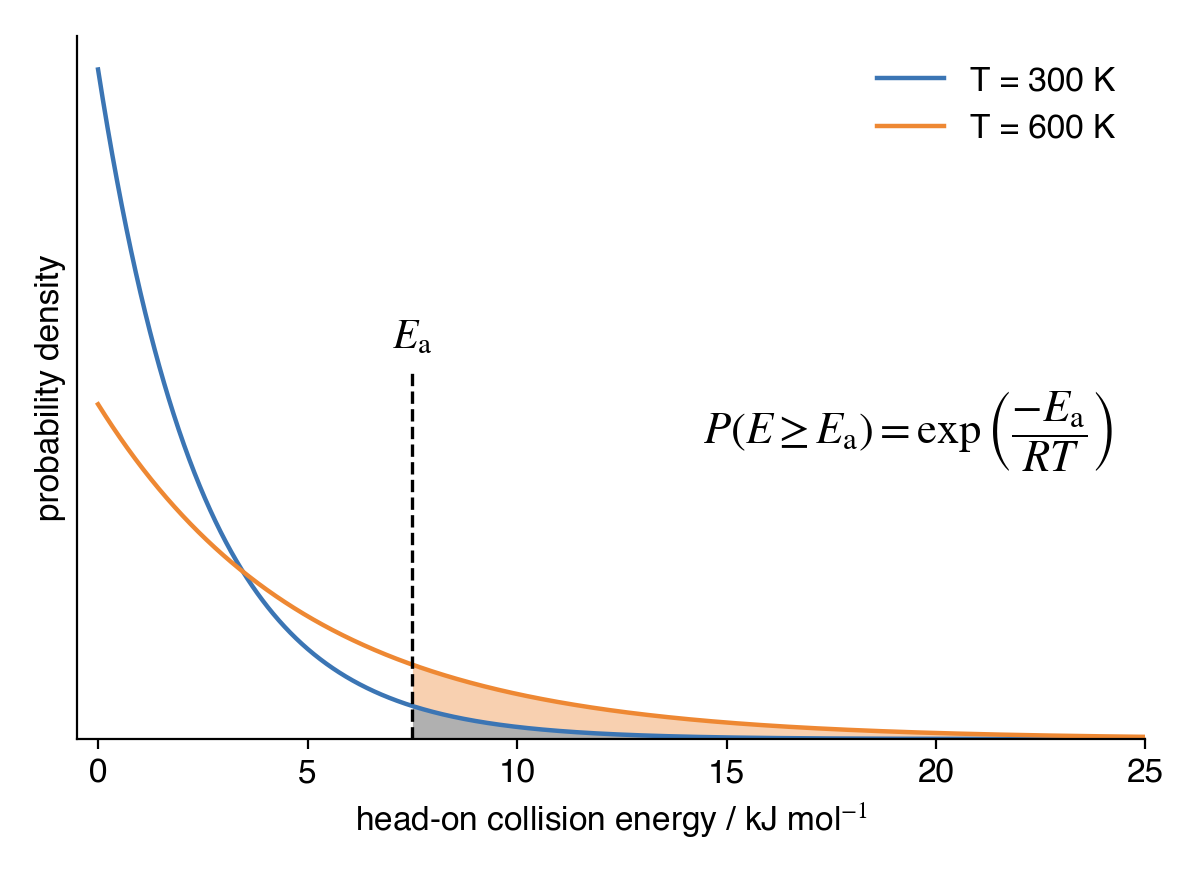
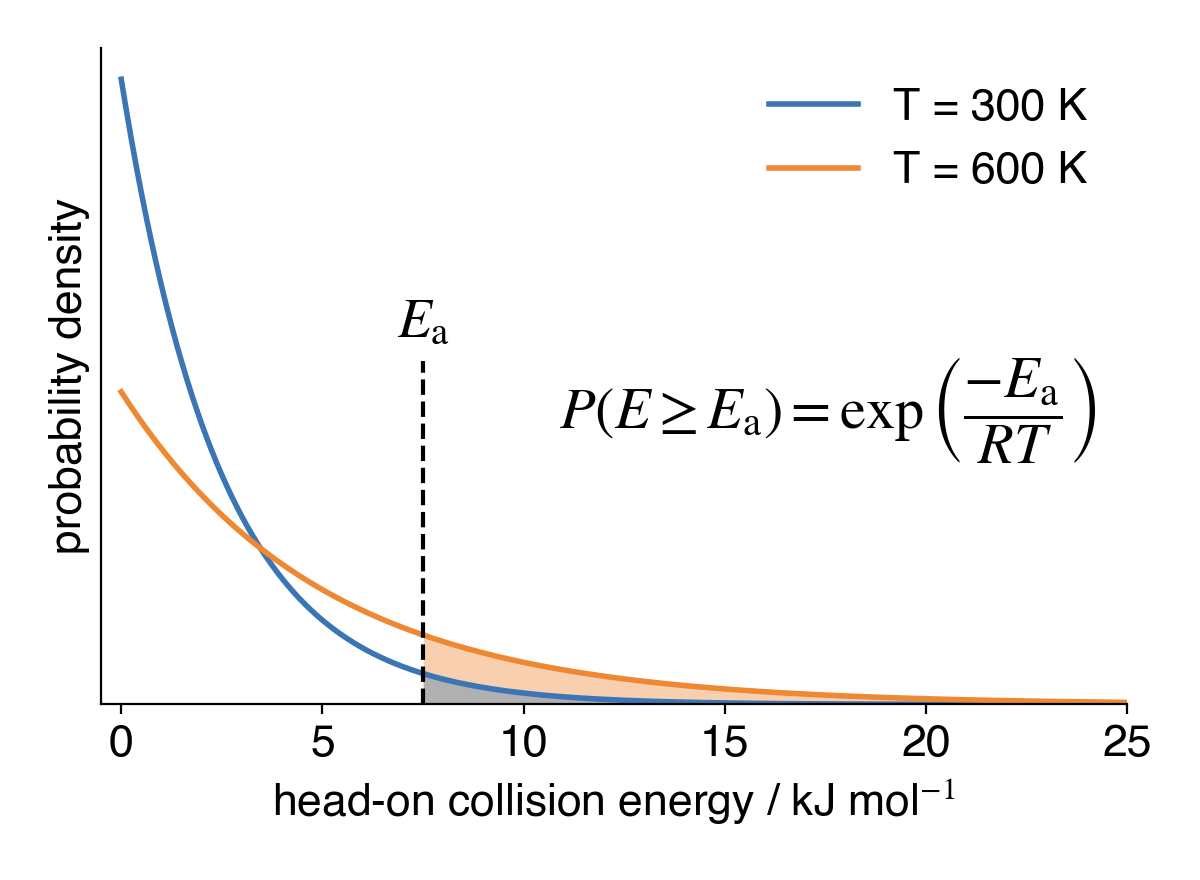
Larger text in the lecture 5 head-on collision energy figure

diff --git a/lecture_5/figures/maxwell_boltzmann.py b/lecture_5/figures/maxwell_boltzmann.py
@@ -19,7 +19,7 @@ import matplotlib.pyplot as plt
 plt.rcParams.update({
     "font.family": "Helvetica",
     "mathtext.fontset": "stix",
-    "font.size": 12,
+    "font.size": 16,
     "pdf.fonttype": 42,
 })
 
@@ -42,12 +42,12 @@ tail = E >= EA
 for T in (600, 300):    # draw the larger (600 K) tail first so the 300 K tail sits on top
     ax.fill_between(E[tail], head_on(E[tail], T), color=SHADES[T], lw=0)
 for T in TEMPS:
-    ax.plot(E, head_on(E, T), color=COLOURS[T], lw=1.6, label=f"T = {T} K")
+    ax.plot(E, head_on(E, T), color=COLOURS[T], lw=2.0, label=f"T = {T} K")
 top = head_on(0, 300)
-ax.plot([EA, EA], [0, 0.55 * top], "k--", lw=1.2)
-ax.text(EA, 0.57 * top, r"$E_\mathrm{a}$", ha="center", va="bottom", fontsize=15)
+ax.plot([EA, EA], [0, 0.55 * top], "k--", lw=1.5)
+ax.text(EA, 0.57 * top, r"$E_\mathrm{a}$", ha="center", va="bottom", fontsize=20)
 ax.text(0.97, 0.42, r"$P(E \geq E_\mathrm{a}) = \exp\left(\dfrac{-E_\mathrm{a}}{RT}\right)$",
-        transform=ax.transAxes, ha="right", fontsize=16)
+        transform=ax.transAxes, ha="right", fontsize=21)
 for side in ("top", "right"):
     ax.spines[side].set_visible(False)
 ax.set_yticks([])
